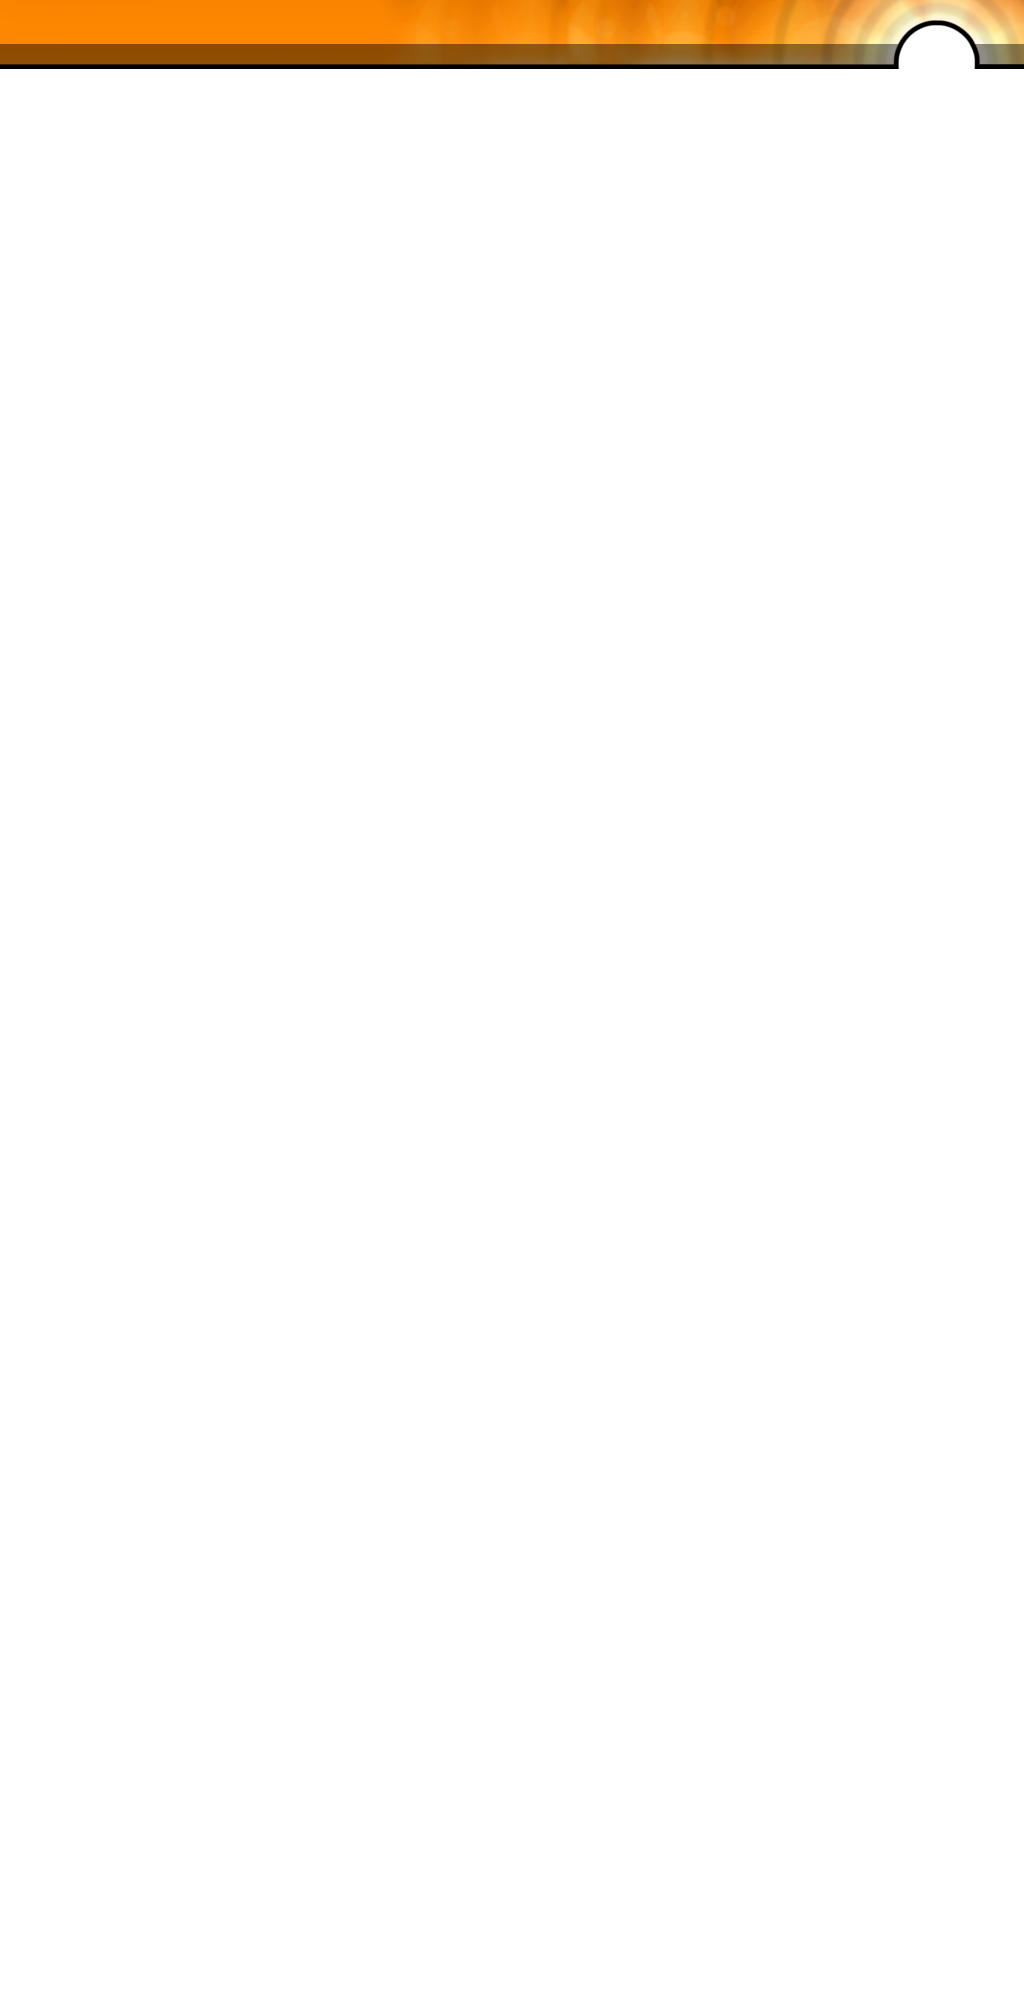
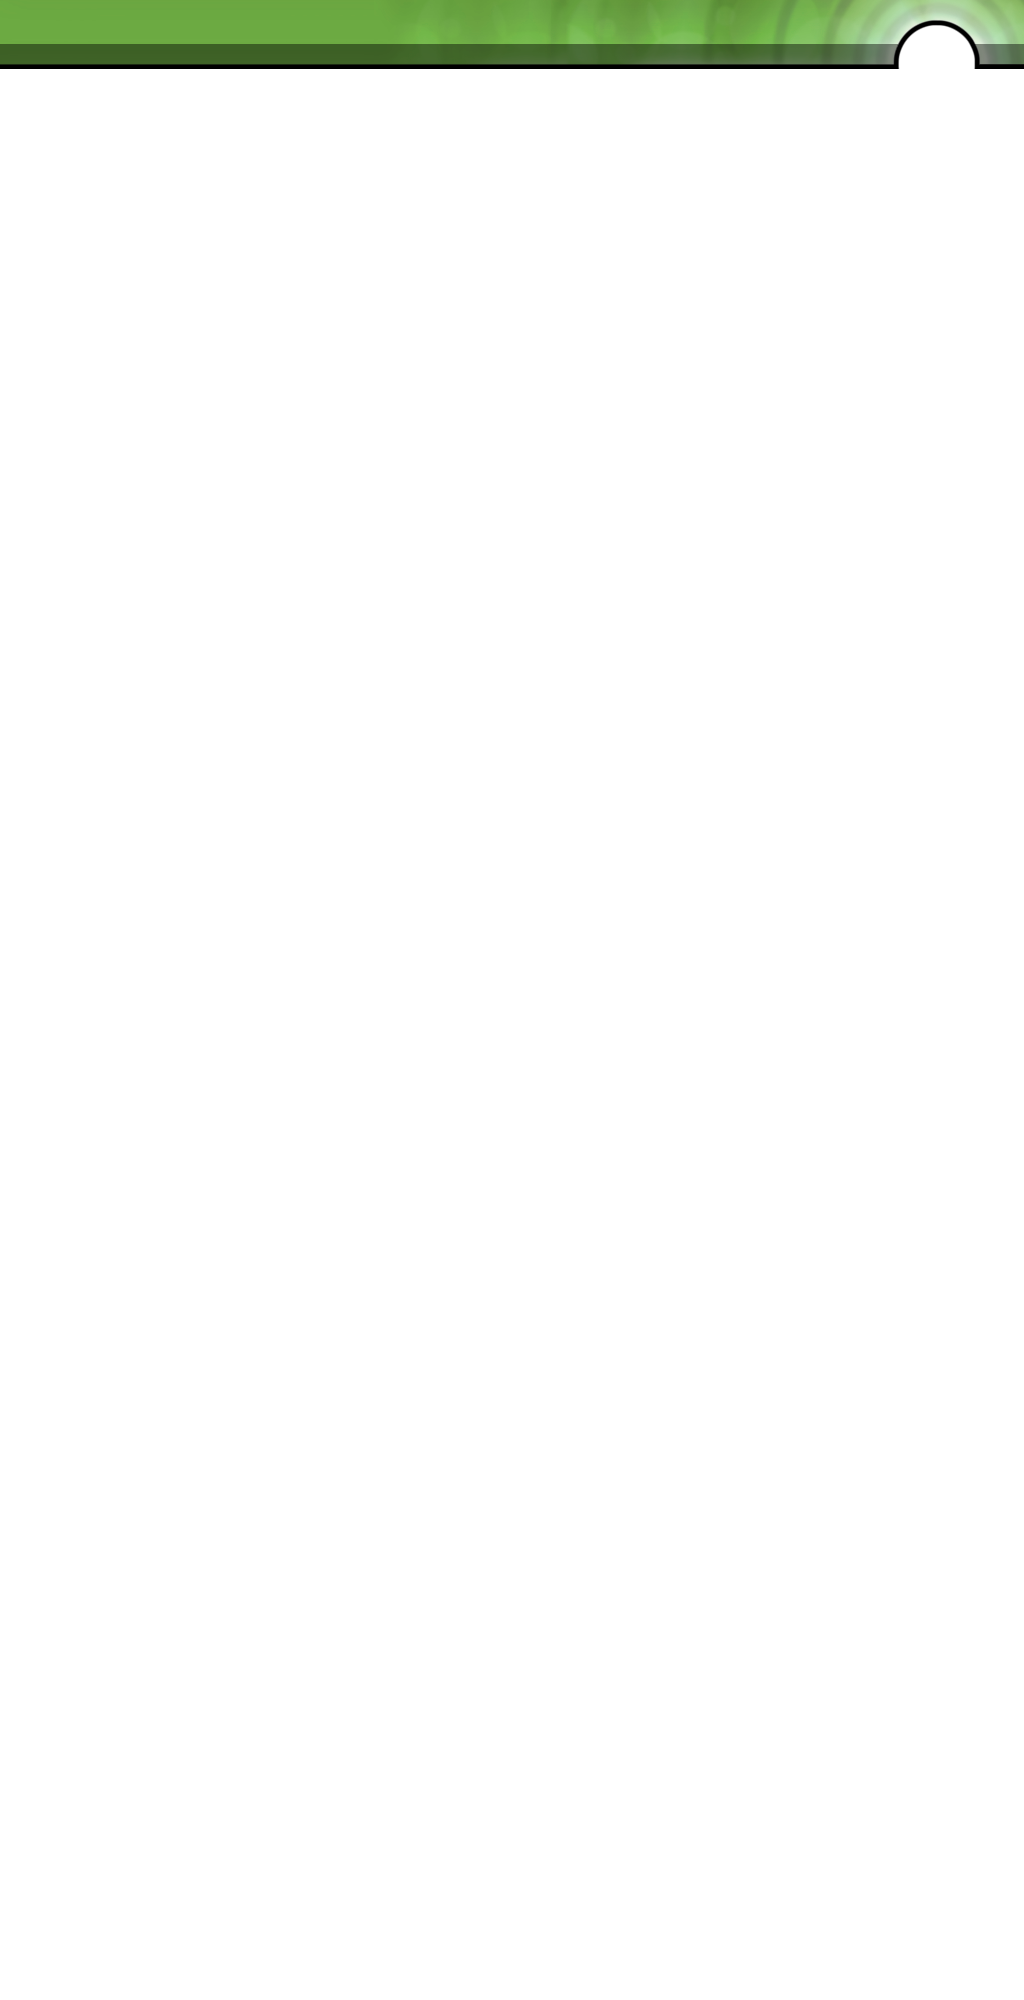
new theme

Changed region(s): [[0.0, 0.0, 1.0, 0.031]]

diff --git a/public/stylesheets/cascade.css b/public/stylesheets/cascade.css
@@ -69,7 +69,7 @@
 			margin:0px;
 			width:100%;
 			border-top:5px solid #000;
-			background-color:#f80;
+			background-color:#6caa42;
 			line-height:15px;
 		}
 
